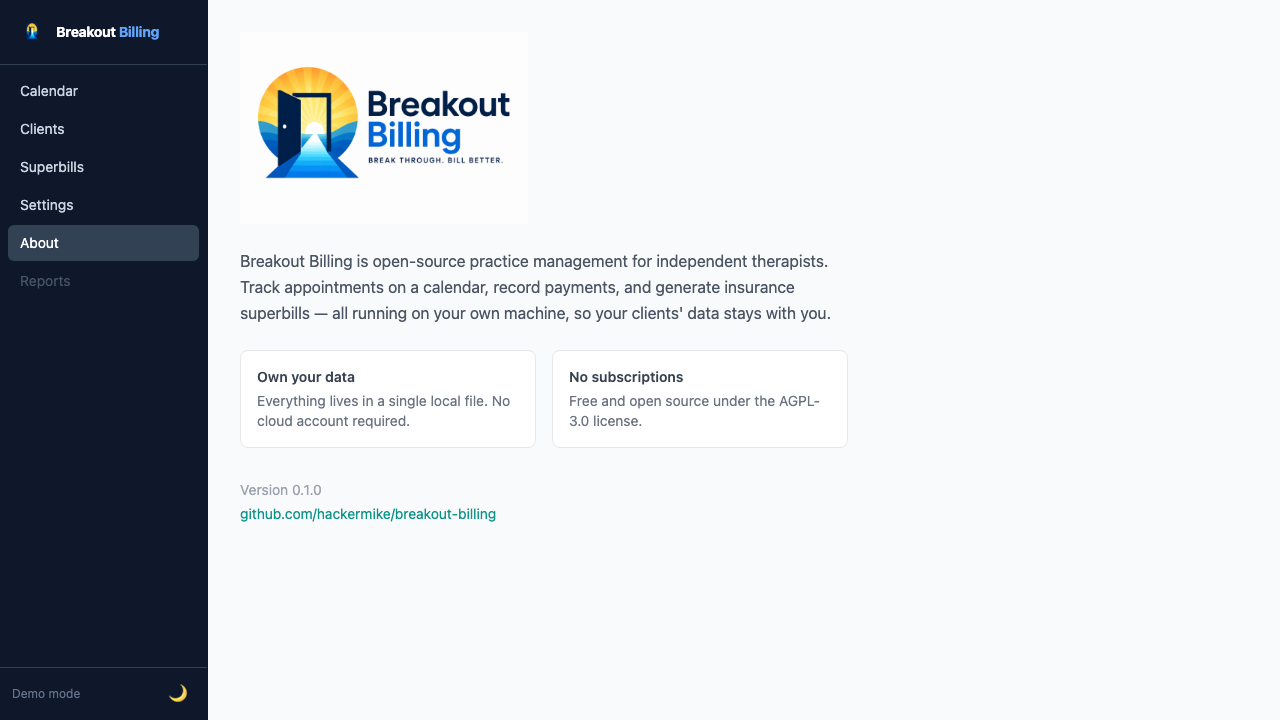
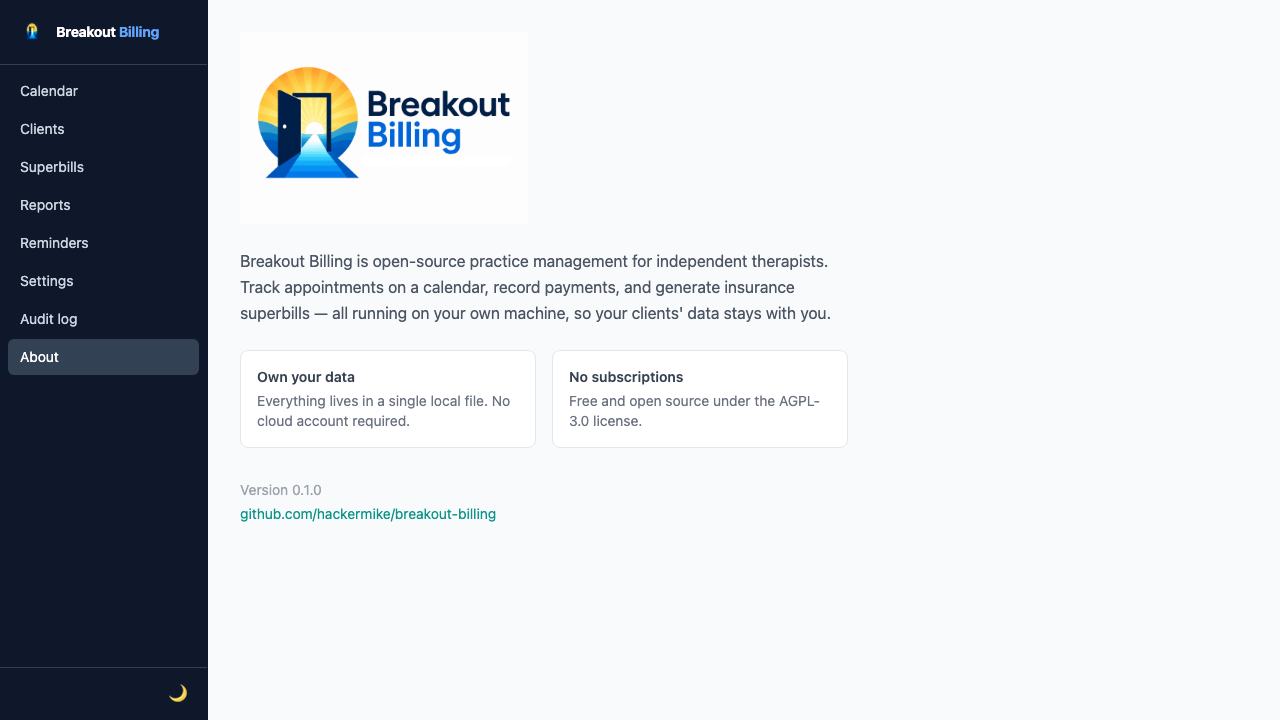
Refresh README screenshots, correct Python version, adopt AGENTS.md (#45)
Regenerates the three README screenshots from the current app: the old ones
showed the since-fixed calendar weekday bug, the removed logo tagline, and an
outdated nav/footer. Corrects the stated minimum Python to 3.11 (the code uses
X | Y unions and breakout-core requires >=3.11, so installs fail below that).
Renames the agent-instructions file to the tool-agnostic AGENTS.md, leaving a
one-line CLAUDE.md that imports it so Claude Code still loads it.

diff --git a/CLAUDE.md b/CLAUDE.md
@@ -1,161 +1,3 @@
-# CLAUDE.md
-
-This file provides guidance to Claude Code (claude.ai/code) when working with code in this repository.
-
-## Git commits
-
-- Never add `Co-Authored-By`, AI attribution lines, or any mention of Claude in commit messages
-- Write commit messages in plain past tense from the perspective of the project (e.g. "Add appointment form", "Fix calendar day detail")
-
-## Project Overview
-
-A lightweight practice management tool for independent therapists and small group practices. Built to give therapists full ownership of their data and workflow without the overhead of large commercial EHR platforms.
-
-Core features:
-- **Calendar interface** for scheduling and viewing appointments
-- **Client demographics** storage (name, contact info, insurance info)
-- **Appointment tracking** (date, time, duration, type, CPT codes, ICD-10 diagnosis codes)
-- **Payment tracking** (amount, method, date, insurance vs. self-pay, balance)
-- **Superbill generation** (PDF receipts clients submit to insurance for reimbursement)
-- **Bookkeeping reports** (income summaries, outstanding balances)
-
-## Tech Stack
-
-**Backend:** Python + FastAPI
-**Frontend:** HTMX + Jinja2 templates + Tailwind CSS (CDN, no build step)
-**Database:** SQLite via SQLAlchemy (single file; migrate to Postgres if multi-user)
-**PDF generation:** fpdf2 (pure Python, no system deps) — see `app/superbill.py`
-
-## Commands
-
-```bash
-./start.sh                              # first run: sets up venv, seeds DB, opens browser
-.venv/bin/uvicorn app.main:app --reload # dev server after first run
-.venv/bin/python seed.py                # re-seed demo data (skips if data exists)
-./scripts/reseed.sh                     # back up, drop, and re-seed the demo DB
-./dev-scripts/make-migration.sh "msg"   # autogenerate an Alembic migration
-.venv/bin/alembic upgrade head          # apply migrations to the current DB
-./scripts/backup.sh                     # timestamped DB backup -> backups/
-./dev-scripts/lint-and-test.sh          # ruff + pytest, the local CI equivalent
-./dev-scripts/dev-server.sh             # restart dev server, wait until healthy
-./dev-scripts/open-pr.sh "Title" body.md    # PR with body from a file
-./dev-scripts/wait-for-review.sh 10      # poll PR #10 until CodeRabbit reviews
-./dev-scripts/merge-pr.sh 10             # squash-merge PR, delete branch, pull main
-node dev-scripts/screenshot.mjs URL out.png  # screenshot a page for verification
-.venv/bin/pytest -q                     # run tests
-.venv/bin/ruff check .                  # lint
-```
-
-**Never use `source .venv/bin/activate`.** Call the venv binaries directly as shown
-above. `source` evaluates arbitrary shell code, so Claude Code cannot allowlist it —
-every command chained after it triggers a permission prompt with no "don't ask again"
-option. Invoking `.venv/bin/<tool>` gets the same environment without the prompt.
-
-Also avoid wrapping background servers in a subshell — `(uvicorn ... &)` cannot be
-allowlisted either, since the leading paren breaks permission pattern matching. Run
-the command unwrapped and let the tool background it.
-
-**General rule: complex shell belongs in a file, not on the command line.** If a Bash
-call needs a loop, `$(...)` substitution, a conditional, a heredoc, a `${VAR}` or
-`${PIPESTATUS[0]}` expansion, or a multi-line quoted string, put it in a script and run
-that. Reusable workflow goes in `dev-scripts/` (committed); one-off probes go in
-`scripts/dev/` (gitignored). Both directories are allowlisted, so a script runs clean.
-
-Claude Code refuses to statically analyze such commands and prompts every time with no
-"don't ask again" option, so no allowlist rule can fix them. Note the scripts in these
-directories use loops and expansions freely — the check applies to what the shell is
-handed, not to what a script contains. The specific cases below are all instances of
-this one rule.
-
-**Never pass a multi-line markdown body as a shell argument.** Write it to a file with
-the editor tool and use `gh pr create --body-file <path>` (same for `git commit -F`).
-A newline followed by `#` — any markdown heading — trips a path-validation check that
-cannot be allowlisted. Keep PR bodies in `scripts/dev/pr-body.md` (gitignored).
-
-**Never pipe code into a file with a bash heredoc** (`cat > f.mjs <<'EOF' ... EOF`).
-Write the file with the editor tool instead, then run it as its own plain command.
-Inline code containing a brace with a quote inside it — `{ path: '/tmp/x.png' }`, common
-in Playwright scripts — trips the shell obfuscation check, which cannot be allowlisted
-and prompts every single time. Put throwaway browser-driver and debug scripts in
-`scripts/dev/` (gitignored) and run them with `node scripts/dev/<name>.mjs`.
-
-For browser work, import Playwright from the `dev-scripts/pw.mjs` helper
-(`import { chromium } from '../../dev-scripts/pw.mjs'`) rather than hardcoding the
-`~/.npm/_npx/<hash>/` cache path — the helper resolves it wherever it lives. For a
-plain page capture, skip writing a script entirely and run
-`node dev-scripts/screenshot.mjs <url> [out.png]`.
-
-Run project scripts by their path — `./scripts/backup.sh`, `./scripts/smoke.sh`. They
-are committed executable with shebangs, so do not prefix them with `bash`, and do not
-prepend `PATH=...` or other environment assignments. Each prefix becomes part of the
-command string the permission system matches against, so a wrapped or env-prefixed
-invocation misses the allowlist rule and prompts every time.
-
-## Feature workflow
-
-Ship each feature as its own reviewed PR off `main`:
-
-1. `git checkout -b feat/<name>` off an up-to-date `main`.
-2. Implement, and add/extend tests (route tests in `tests/test_routes.py`, e2e in `tests/e2e/`).
-3. `./dev-scripts/lint-and-test.sh` until green.
-4. If the change is visible, `./scripts/reseed.sh && ./dev-scripts/dev-server.sh`, then verify with `node dev-scripts/screenshot.mjs <url>` or a `scripts/dev/*.mjs` driver.
-5. Commit with `git commit -F <file>` (message in `scripts/dev/`), then `./dev-scripts/open-pr.sh "Title" scripts/dev/pr-body.md`.
-6. `./dev-scripts/wait-for-review.sh <pr>`; address CodeRabbit's findings; when CI is green and feedback resolved, `./dev-scripts/merge-pr.sh <pr>`.
-7. Keep the README "What it does" / "Coming next" lists in sync as features land.
-
-## Schema changes
-
-**Alembic owns the schema.** `run_migrations()` (`app/db_init.py`) runs
-`alembic upgrade head` on app startup and in `seed.py`, so the database always
-matches the models. Do **not** use `Base.metadata.create_all` in app code (tests
-still build their schema directly in `tests/conftest.py`, which is fine).
-
-To change the schema:
-1. Edit the model.
-2. `./dev-scripts/make-migration.sh "short description"` — autogenerates a
-   migration in `migrations/versions/`. **Review it** (SQLite alters run in batch
-   mode) and prefer **nullable** columns.
-3. `./scripts/reseed.sh` (fresh demo DB) or `.venv/bin/alembic upgrade head` (apply
-   to an existing DB).
-
-`tests/test_migrations.py` fails if the migrations drift from the models, so a
-missing migration is caught in CI.
-
-## Key Domain Concepts
-
-**Superbill:** A detailed service receipt the client submits to their insurance company for reimbursement. Must include: provider NPI number, provider credentials, client info, date of service, CPT procedure codes, ICD-10 diagnosis codes, fee charged, and any payments made.
-
-**CPT codes:** Procedure codes that describe the type of therapy session (e.g., 90837 = 60-min psychotherapy, 90834 = 45-min).
-
-**ICD-10 codes:** Diagnosis codes (e.g., F33.0 = Major depressive disorder). Required on superbills.
-
-**NPI:** National Provider Identifier — the therapist's unique billing ID, required on all superbills.
-
-## Core Data Model
-
-```
-Client
-  - id, first_name, last_name, dob, email, phone
-  - insurance_company, insurance_id, group_number
-  - diagnosis_codes (comma-separated ICD-10)
-
-Appointment
-  - id, client_id, datetime, duration_minutes
-  - appointment_type, cpt_code
-  - notes, status (scheduled/completed/cancelled/no_show)
-
-Payment
-  - id, appointment_id (nullable)
-  - amount, payment_date, payment_method, payer, notes
-
-Provider
-  - name, credentials, npi, license_number
-  - practice_name, address, phone, email, tax_id
-```
-
-## HIPAA
-
-For local use: ensure disk encryption is on (Mac FileVault). No BAA needed.
-For cloud deployment: use AWS/GCP/Azure (all offer BAAs). Railway and Render do not offer BAAs — fine for testing with fake data only.
-
-Do not commit real patient data.
+<!-- The agent instructions for this repo live in AGENTS.md (tool-agnostic).
+     Claude Code reads CLAUDE.md, not AGENTS.md, so this file imports it. -->
+@AGENTS.md

diff --git a/AGENTS.md b/AGENTS.md
@@ -1,0 +1,163 @@
+# AGENTS.md
+
+Guidance for AI coding agents (e.g. Claude Code) working in this repository.
+Some notes below are specific to Claude Code's permission model, but the
+conventions apply to any agent.
+
+## Git commits
+
+- Never add `Co-Authored-By`, AI attribution lines, or any mention of Claude in commit messages
+- Write commit messages in plain past tense from the perspective of the project (e.g. "Add appointment form", "Fix calendar day detail")
+
+## Project Overview
+
+A lightweight practice management tool for independent therapists and small group practices. Built to give therapists full ownership of their data and workflow without the overhead of large commercial EHR platforms.
+
+Core features:
+- **Calendar interface** for scheduling and viewing appointments
+- **Client demographics** storage (name, contact info, insurance info)
+- **Appointment tracking** (date, time, duration, type, CPT codes, ICD-10 diagnosis codes)
+- **Payment tracking** (amount, method, date, insurance vs. self-pay, balance)
+- **Superbill generation** (PDF receipts clients submit to insurance for reimbursement)
+- **Bookkeeping reports** (income summaries, outstanding balances)
+
+## Tech Stack
+
+**Backend:** Python + FastAPI
+**Frontend:** HTMX + Jinja2 templates + Tailwind CSS (CDN, no build step)
+**Database:** SQLite via SQLAlchemy (single file; migrate to Postgres if multi-user)
+**PDF generation:** fpdf2 (pure Python, no system deps) — see `app/superbill.py`
+
+## Commands
+
+```bash
+./start.sh                              # first run: sets up venv, seeds DB, opens browser
+.venv/bin/uvicorn app.main:app --reload # dev server after first run
+.venv/bin/python seed.py                # re-seed demo data (skips if data exists)
+./scripts/reseed.sh                     # back up, drop, and re-seed the demo DB
+./dev-scripts/make-migration.sh "msg"   # autogenerate an Alembic migration
+.venv/bin/alembic upgrade head          # apply migrations to the current DB
+./scripts/backup.sh                     # timestamped DB backup -> backups/
+./dev-scripts/lint-and-test.sh          # ruff + pytest, the local CI equivalent
+./dev-scripts/dev-server.sh             # restart dev server, wait until healthy
+./dev-scripts/open-pr.sh "Title" body.md    # PR with body from a file
+./dev-scripts/wait-for-review.sh 10      # poll PR #10 until CodeRabbit reviews
+./dev-scripts/merge-pr.sh 10             # squash-merge PR, delete branch, pull main
+node dev-scripts/screenshot.mjs URL out.png  # screenshot a page for verification
+.venv/bin/pytest -q                     # run tests
+.venv/bin/ruff check .                  # lint
+```
+
+**Never use `source .venv/bin/activate`.** Call the venv binaries directly as shown
+above. `source` evaluates arbitrary shell code, so Claude Code cannot allowlist it —
+every command chained after it triggers a permission prompt with no "don't ask again"
+option. Invoking `.venv/bin/<tool>` gets the same environment without the prompt.
+
+Also avoid wrapping background servers in a subshell — `(uvicorn ... &)` cannot be
+allowlisted either, since the leading paren breaks permission pattern matching. Run
+the command unwrapped and let the tool background it.
+
+**General rule: complex shell belongs in a file, not on the command line.** If a Bash
+call needs a loop, `$(...)` substitution, a conditional, a heredoc, a `${VAR}` or
+`${PIPESTATUS[0]}` expansion, or a multi-line quoted string, put it in a script and run
+that. Reusable workflow goes in `dev-scripts/` (committed); one-off probes go in
+`scripts/dev/` (gitignored). Both directories are allowlisted, so a script runs clean.
+
+Claude Code refuses to statically analyze such commands and prompts every time with no
+"don't ask again" option, so no allowlist rule can fix them. Note the scripts in these
+directories use loops and expansions freely — the check applies to what the shell is
+handed, not to what a script contains. The specific cases below are all instances of
+this one rule.
+
+**Never pass a multi-line markdown body as a shell argument.** Write it to a file with
+the editor tool and use `gh pr create --body-file <path>` (same for `git commit -F`).
+A newline followed by `#` — any markdown heading — trips a path-validation check that
+cannot be allowlisted. Keep PR bodies in `scripts/dev/pr-body.md` (gitignored).
+
+**Never pipe code into a file with a bash heredoc** (`cat > f.mjs <<'EOF' ... EOF`).
+Write the file with the editor tool instead, then run it as its own plain command.
+Inline code containing a brace with a quote inside it — `{ path: '/tmp/x.png' }`, common
+in Playwright scripts — trips the shell obfuscation check, which cannot be allowlisted
+and prompts every single time. Put throwaway browser-driver and debug scripts in
+`scripts/dev/` (gitignored) and run them with `node scripts/dev/<name>.mjs`.
+
+For browser work, import Playwright from the `dev-scripts/pw.mjs` helper
+(`import { chromium } from '../../dev-scripts/pw.mjs'`) rather than hardcoding the
+`~/.npm/_npx/<hash>/` cache path — the helper resolves it wherever it lives. For a
+plain page capture, skip writing a script entirely and run
+`node dev-scripts/screenshot.mjs <url> [out.png]`.
+
+Run project scripts by their path — `./scripts/backup.sh`, `./scripts/smoke.sh`. They
+are committed executable with shebangs, so do not prefix them with `bash`, and do not
+prepend `PATH=...` or other environment assignments. Each prefix becomes part of the
+command string the permission system matches against, so a wrapped or env-prefixed
+invocation misses the allowlist rule and prompts every time.
+
+## Feature workflow
+
+Ship each feature as its own reviewed PR off `main`:
+
+1. `git checkout -b feat/<name>` off an up-to-date `main`.
+2. Implement, and add/extend tests (route tests in `tests/test_routes.py`, e2e in `tests/e2e/`).
+3. `./dev-scripts/lint-and-test.sh` until green.
+4. If the change is visible, `./scripts/reseed.sh && ./dev-scripts/dev-server.sh`, then verify with `node dev-scripts/screenshot.mjs <url>` or a `scripts/dev/*.mjs` driver.
+5. Commit with `git commit -F <file>` (message in `scripts/dev/`), then `./dev-scripts/open-pr.sh "Title" scripts/dev/pr-body.md`.
+6. `./dev-scripts/wait-for-review.sh <pr>`; address CodeRabbit's findings; when CI is green and feedback resolved, `./dev-scripts/merge-pr.sh <pr>`.
+7. Keep the README "What it does" / "Coming next" lists in sync as features land.
+
+## Schema changes
+
+**Alembic owns the schema.** `run_migrations()` (`app/db_init.py`) runs
+`alembic upgrade head` on app startup and in `seed.py`, so the database always
+matches the models. Do **not** use `Base.metadata.create_all` in app code (tests
+still build their schema directly in `tests/conftest.py`, which is fine).
+
+To change the schema:
+1. Edit the model.
+2. `./dev-scripts/make-migration.sh "short description"` — autogenerates a
+   migration in `migrations/versions/`. **Review it** (SQLite alters run in batch
+   mode) and prefer **nullable** columns.
+3. `./scripts/reseed.sh` (fresh demo DB) or `.venv/bin/alembic upgrade head` (apply
+   to an existing DB).
+
+`tests/test_migrations.py` fails if the migrations drift from the models, so a
+missing migration is caught in CI.
+
+## Key Domain Concepts
+
+**Superbill:** A detailed service receipt the client submits to their insurance company for reimbursement. Must include: provider NPI number, provider credentials, client info, date of service, CPT procedure codes, ICD-10 diagnosis codes, fee charged, and any payments made.
+
+**CPT codes:** Procedure codes that describe the type of therapy session (e.g., 90837 = 60-min psychotherapy, 90834 = 45-min).
+
+**ICD-10 codes:** Diagnosis codes (e.g., F33.0 = Major depressive disorder). Required on superbills.
+
+**NPI:** National Provider Identifier — the therapist's unique billing ID, required on all superbills.
+
+## Core Data Model
+
+```
+Client
+  - id, first_name, last_name, dob, email, phone
+  - insurance_company, insurance_id, group_number
+  - diagnosis_codes (comma-separated ICD-10)
+
+Appointment
+  - id, client_id, datetime, duration_minutes
+  - appointment_type, cpt_code
+  - notes, status (scheduled/completed/cancelled/no_show)
+
+Payment
+  - id, appointment_id (nullable)
+  - amount, payment_date, payment_method, payer, notes
+
+Provider
+  - name, credentials, npi, license_number
+  - practice_name, address, phone, email, tax_id
+```
+
+## HIPAA
+
+For local use: ensure disk encryption is on (Mac FileVault). No BAA needed.
+For cloud deployment: use AWS/GCP/Azure (all offer BAAs). Railway and Render do not offer BAAs — fine for testing with fake data only.
+
+Do not commit real patient data.

diff --git a/README.md b/README.md
@@ -46,7 +46,7 @@ See [docs/USAGE.md](docs/USAGE.md) for a full walkthrough.
 
 ## Quick start (Mac)
 
-**Requirements:** Python 3.9 or newer. Check by opening Terminal (press `Cmd+Space`, type "Terminal") and running `python3 --version`. If you don't have it, download from [python.org/downloads](https://www.python.org/downloads/).
+**Requirements:** Python 3.11 or newer. Check by opening Terminal (press `Cmd+Space`, type "Terminal") and running `python3 --version`. If you don't have it, download from [python.org/downloads](https://www.python.org/downloads/).
 
 **Option A — Download (no tools needed)**
 
